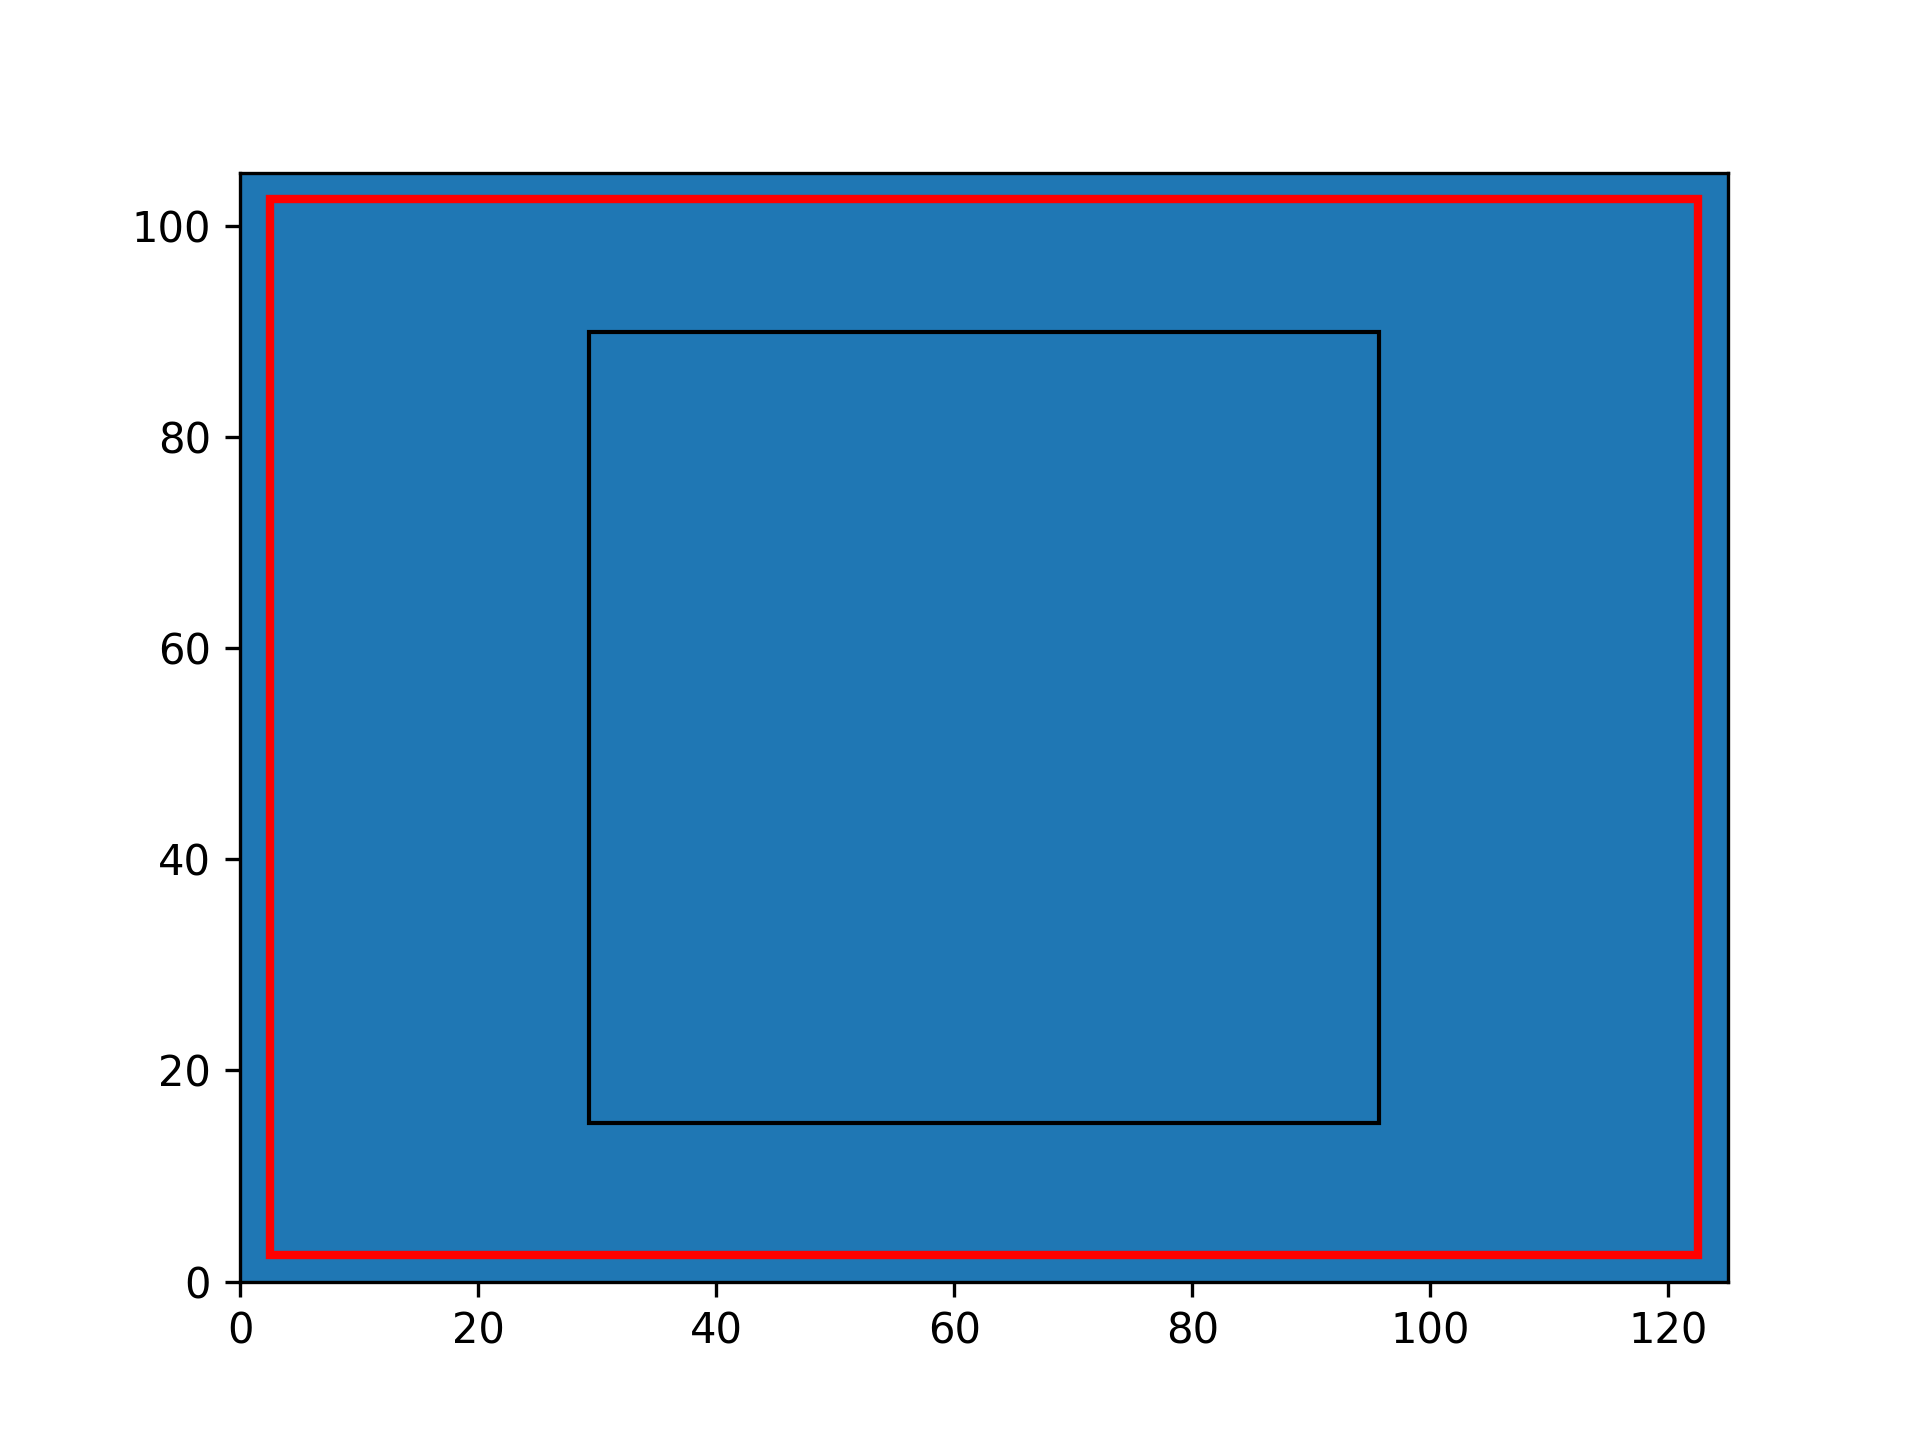
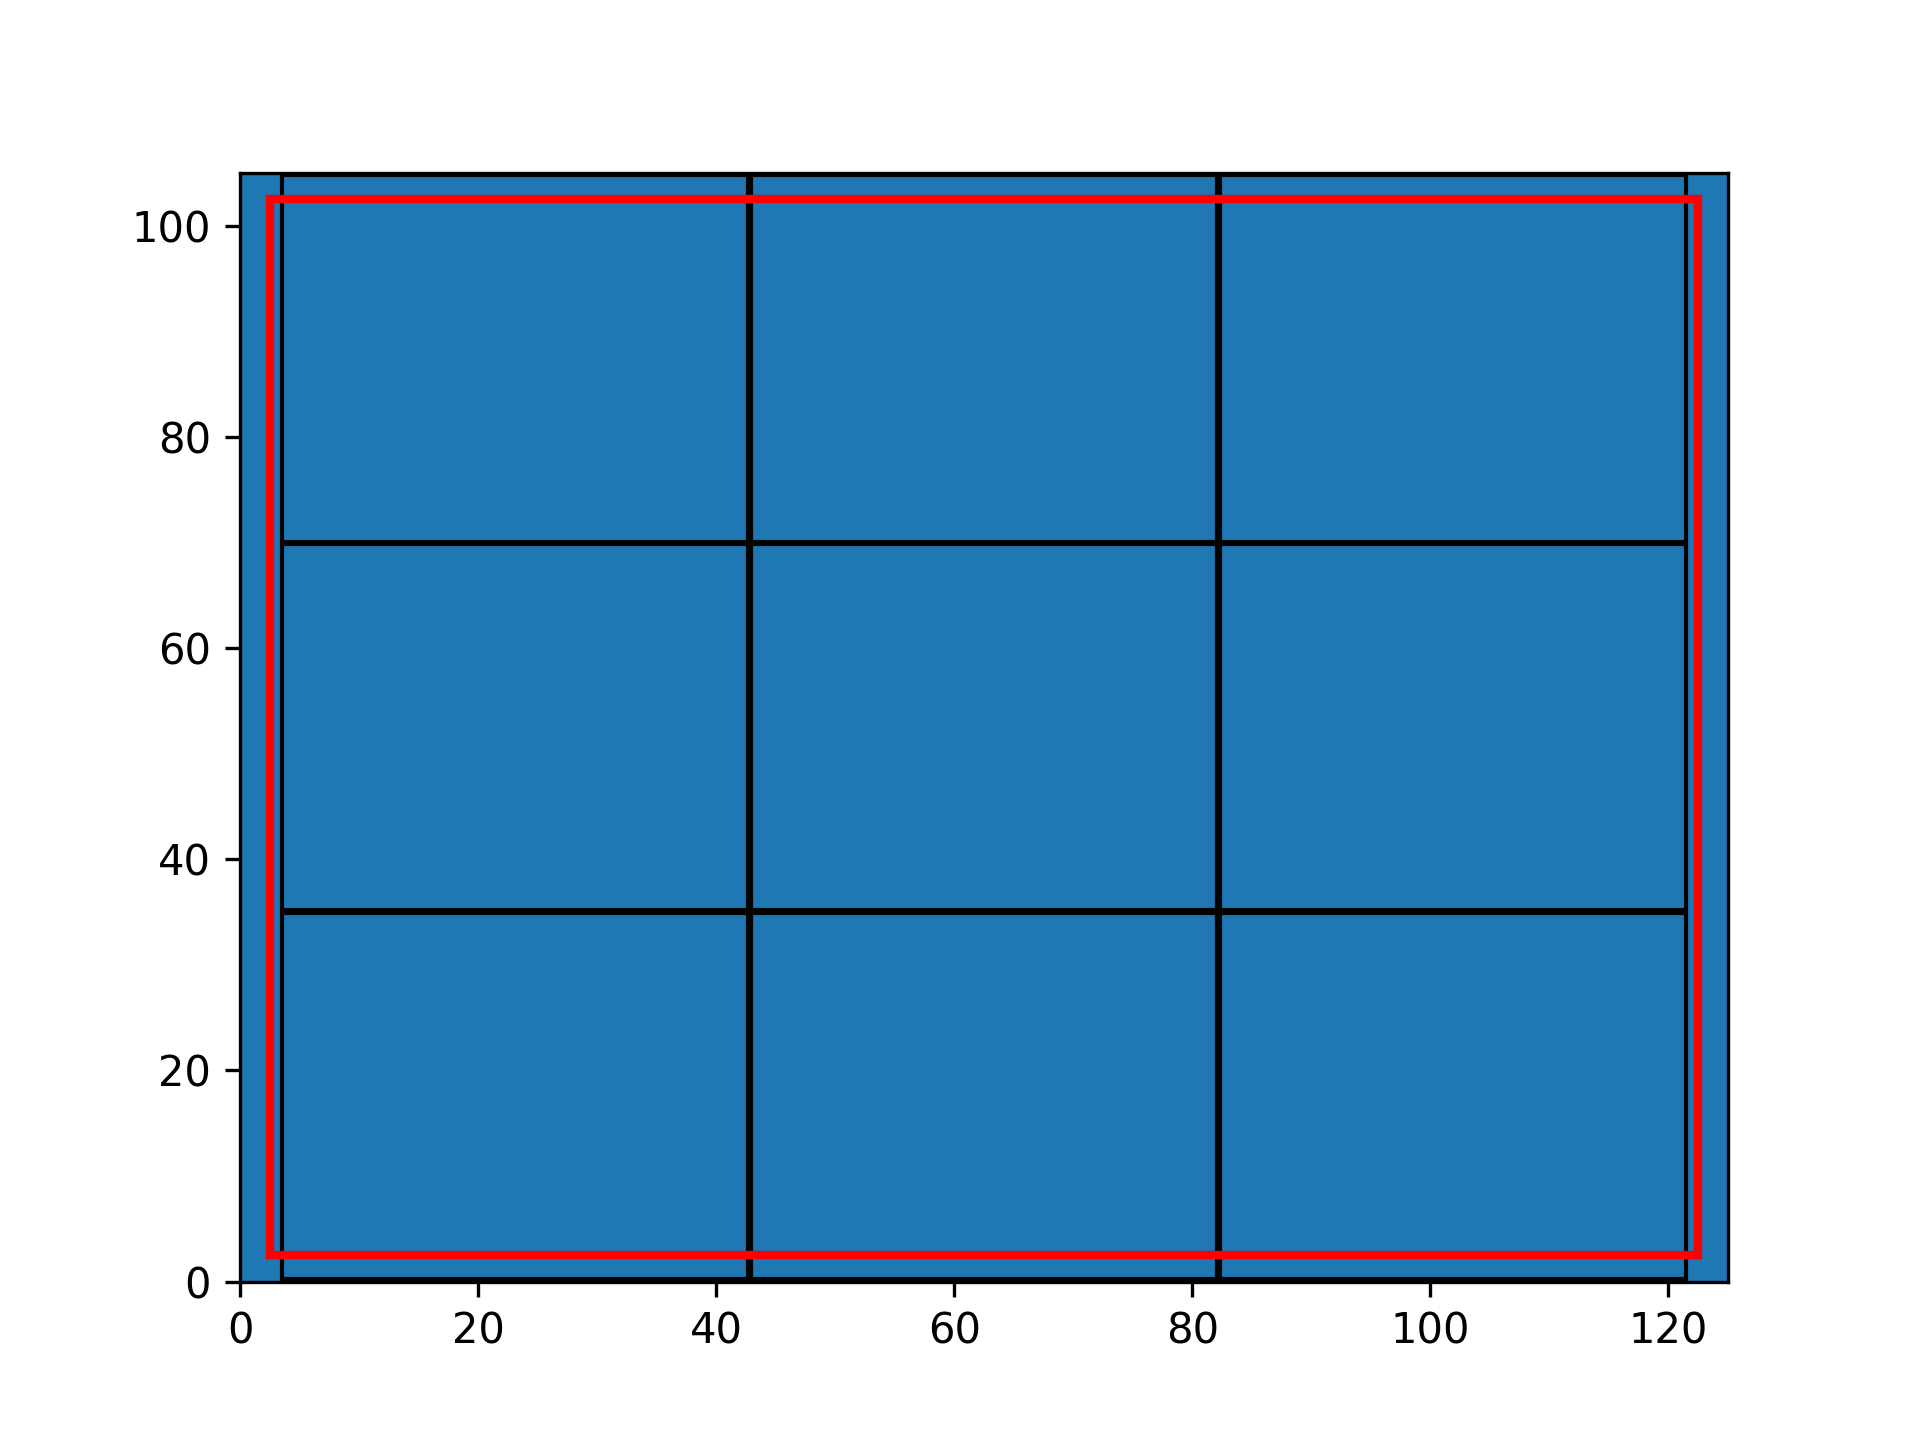
some bugs fixed

diff --git a/GUI_main.py b/GUI_main.py
@@ -6,6 +6,9 @@ from tkinter import ttk
 import pandas as pd
 from PIL import ImageTk, Image
 import math
+from folder_2.Draw import draw_rectangles as draw_rects
+from folder_1.Draw import draw_hexagons as draw_hexs
+
 
 
 class App:
@@ -30,19 +33,22 @@ class App:
                 radius = float(dest)
                 radius = radius / 20
                 #Call the function to calculate the dimension of the hexagon
-                total = cd(radius, n_rows, rows_array, 9999)
+                hexagons = cd(radius, n_rows, rows_array, 9999)
+                total = len(hexagons)
                 single = sum([int(i) for i in compo_list[i].split('-')])
                 total_tubes_1 =  single * total
-                print("single weight: " + str(weight) + " weight hex: " + str(weight * single) + " of config " + compo_list[i])
                 if total_tubes_1 > max_found and single * weight < 25:
                     max_found = total_tubes_1
                     best_compo = compo_list[i]
+                    best_hex = hexagons
+
         log_msg = "**********************************************************************\n"
         log_msg += f"Composizioni consigliate per il tubo di diametro {dest} mm:\n"
         log_msg += f"- Forma esagonale: {best_compo} - Peso: {round(sum([int(i) for i in best_compo.split('-')]) * weight, 2)} Kg\n"
         console_log.config(state="normal")
         console_log.insert(tk.END, log_msg)
         console_log.config(state="disabled")
+        draw_hexs(best_hex)
 
         return max_found
 
@@ -55,19 +61,20 @@ class App:
 
         for row in rows:
             
-            total_rect = cd2(float(dest)/20, row[0], row[1], row[1], weight)
+            rects = cd2(float(dest)/20, row[0], row[1], row[1], weight)
+            total_rect = len(rects)
             single_rect = (row[1] * int((row[1] / 2)) + row[0] * (row[1] - int((row[1]) / 2)))
-            print("single rect: " + str(single_rect))
             total_tubes = total_rect * single_rect
-            print("single weight: " + str(weight) + " weight rect: " + str(weight * single_rect) + " of config " + str(row))
             if total_tubes > max_number and single_rect * weight < 25:
                 max_number = total_tubes
                 best_config = row
-        print("best config", best_config)
+                best_rect = rects
+
         log_msg = f"- Forma rettangolare: {best_config} - Peso: {round((best_config[1] * int((best_config[1] / 2)) + best_config[0] * (best_config[1] - int((best_config[1]) / 2))) * weight, 2)} Kg\n"
         console_log.config(state="normal")
         console_log.insert(tk.END, log_msg)
         console_log.config(state="disabled")   
+        draw_rects(best_rect)
         return max_number
 
     def __init__(self, master):

diff --git a/folder_1/Main.py b/folder_1/Main.py
@@ -98,7 +98,6 @@ def test_no_rotation(hexagons_no_rot, hex_width, hex_height, hex_side, index):
     ## Draw the hexagons to see the result
     len_no_rotation = len(hexagons_no_rot)
     centering_no_rotation(hexagons_no_rot, highest_y, hex_width, hex_height, hex_side)
-    dr.draw_rectangle(hexagons_no_rot, hex_width, hex_height, hex_side, "no_rotation", index)
     return len_no_rotation
     
 def test_rotation(hexagons_rot, hex_width, hex_height, hex_side, index):
@@ -144,8 +143,6 @@ def test_rotation(hexagons_rot, hex_width, hex_height, hex_side, index):
     ## Draw the hexagons to see the result
     len_rotation = len(hexagons_rot)
     centering_rotation(hexagons_rot, highest_x, hex_width, hex_height, hex_side)
-
-    dr.draw_rectangle(hexagons_rot, hex_width, hex_height, hex_side, "rotation", index)
 
     
 
@@ -193,19 +190,13 @@ def compute(hex_width, hex_height, hex_side, index):
     hexagons_no_rot = []
     hexagons_rot = []
 
-    len_no_rotation = test_no_rotation(hexagons_no_rot, hex_width, hex_height, hex_side, index)
-    len_rotation = test_rotation(hexagons_rot, hex_width, hex_height, hex_side, index)
+    test_no_rotation(hexagons_no_rot, hex_width, hex_height, hex_side, index)
+    test_rotation(hexagons_rot, hex_width, hex_height, hex_side, index)
 
-    if(len_no_rotation > len_rotation):
-        dr.draw_rectangle(hexagons_no_rot, hex_width, hex_height, hex_side, "no", index)
-        save_on_csv(hexagons_no_rot, "no")
-        return len_no_rotation
-        
-        
+    if(len(hexagons_no_rot) > len(hexagons_rot)):
+        return hexagons_no_rot
     else:
-        dr.draw_rectangle(hexagons_rot, hex_width, hex_height, hex_side, "si", index)
-        save_on_csv(hexagons_rot, "si")
-        return len_rotation
+        return hexagons_rot
 
 
 

diff --git a/folder_2/Main.py b/folder_2/Main.py
@@ -41,7 +41,6 @@ def place_rect(L, l):
     slack_x = rect_width - last_origin[0] - L/2
 
     for rectangle in rectangles:
-        print("slack", slack_x/2, slack_y/2)
         rectangle.update_points(slack_x/2, slack_y/2)
 
 
@@ -65,13 +64,9 @@ def main(L, l):
 
     if(len(rectangles_norot) > len(rectangles_rot)):
         rectangles = rectangles_norot
-        save_on_csv(rectangles, 'no')
     else:
         rectangles = rectangles_rot
-        save_on_csv(rectangles, 'yes')
-
-    d.draw_rectangles(rectangles)
-
+    
     return rectangles
 
 
@@ -86,7 +81,7 @@ def save_on_csv(rectangles, rotation):
     Returns:
     None
     """
-    with open('rectangles.csv', 'w', newline='') as csvfile:
+    with open('rectangles' + str(len(rectangles)) +'.csv', 'w', newline='') as csvfile:
         writer = csv.writer(csvfile, delimiter=',')
         writer.writerow(['x', 'y', 'rotazione'])
 

diff --git a/folder_1/Draw.py b/folder_1/Draw.py
@@ -2,7 +2,7 @@ import matplotlib.pyplot as plt
 from matplotlib.patches import Rectangle
 from matplotlib.patches import Polygon
 
-def draw_rectangle(hexagons, hex_width, hex_height, hex_side, rotation, index):
+def draw_hexagons(hexagons):
     # Create a rectangle object with width=120 and height=100
     rect = Rectangle((0, 0), 125, 105)
 
@@ -32,8 +32,7 @@ def draw_rectangle(hexagons, hex_width, hex_height, hex_side, rotation, index):
 
     # Display the plot
     #plt.show()
-    if (index == 9999):
-        plt.savefig("./folder_1/images/hex.png", dpi=300)
+    plt.savefig("./folder_1/images/hex.png", dpi=300)
     ##plt.savefig("./images/" + str(index) + 'hexagon' + str(hex_width) + str(hex_height) + str(hex_side) + rotation + '.png', dpi=300)
 
     plt.close()

diff --git a/folder_2/CalculateDimension.py b/folder_2/CalculateDimension.py
@@ -38,7 +38,7 @@ def calculate_rectangle_dimensions(radius, short_side, long_side, rows, weight):
         raise ValueError("Invalid ratio")
 
     frame = m.main(frame_width, tube_length)
-    return len(frame)
+    return frame
     ##single_frame = (long_side * (int(int(rows) / 2)) + short_side * (int(rows) - int(int(rows) / 2)))
     ##print("single weight: " + str(weight) + " weight rect: " + str(weight * single_frame) + " of config " + str(rows) + "-" + str(rows-1))
 

diff --git a/folder_1/CalculateDimension.py b/folder_1/CalculateDimension.py
@@ -32,6 +32,6 @@ def calculate_hexagon_dimensions(radius, n_rows, rows_array, index):
     b_max = b_min * k
 
     # Compute the total number of tubes in the hexagon
-    total_tubes = m.compute(B_max, h_max * 2, b_max, index)
-
-    return total_tubes
+    frame = m.compute(B_max, h_max * 2, b_max, index)
+          
+    return frame

diff --git a/folder_1/Hexagon.py b/folder_1/Hexagon.py
@@ -62,3 +62,4 @@ class Hexagon:
             self.verts[i] = (self.verts[i][0] + slack_x, self.verts[i][1] + slack_y)
 
 
+
